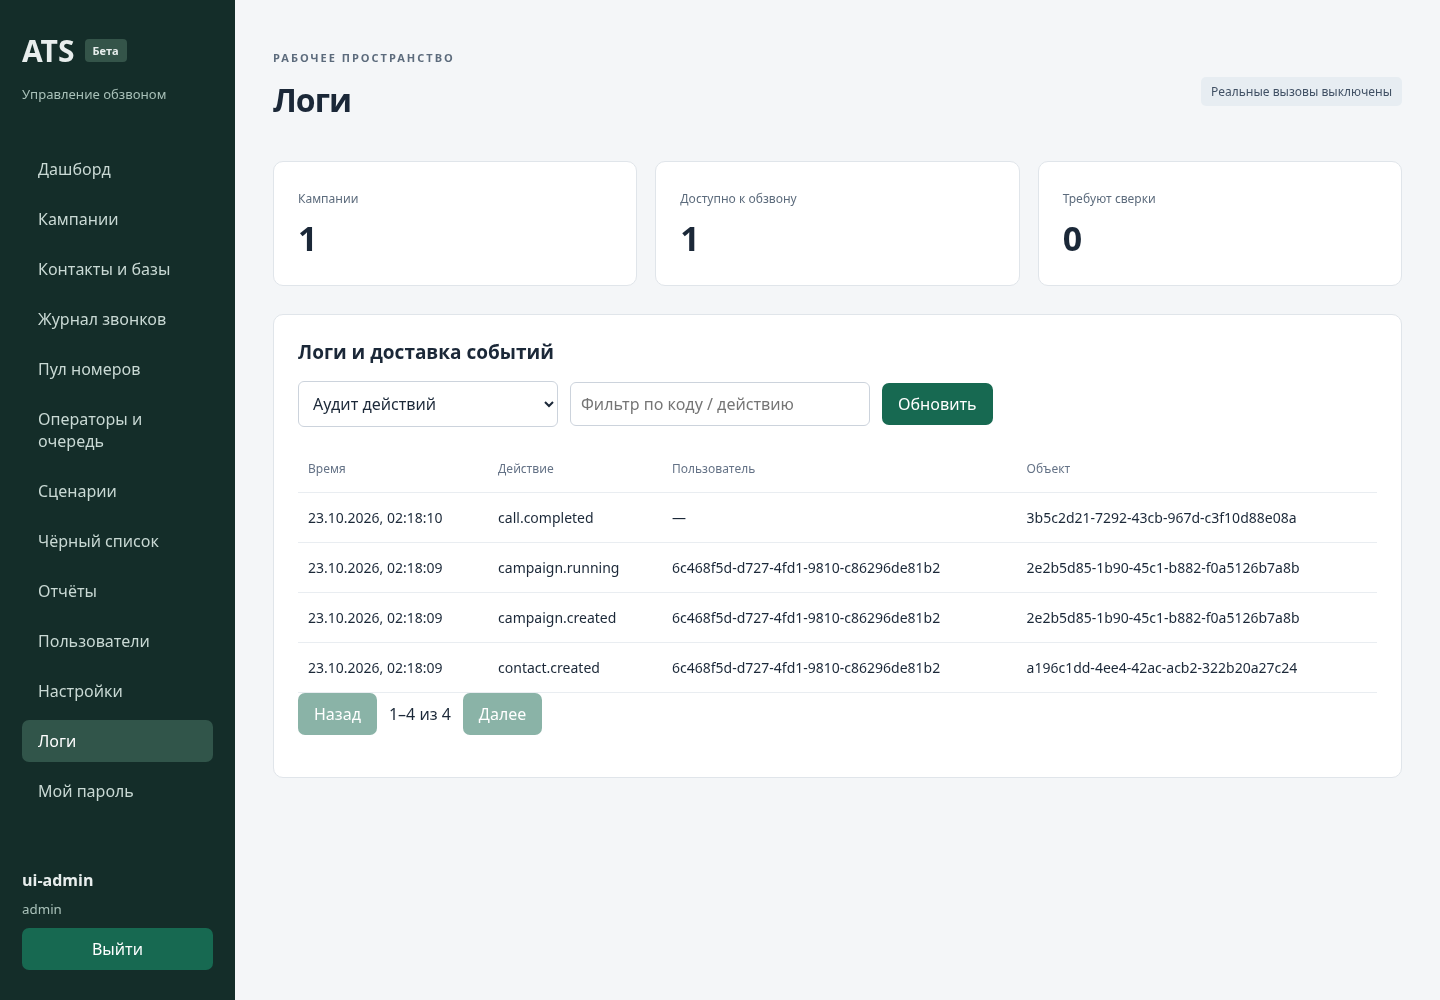
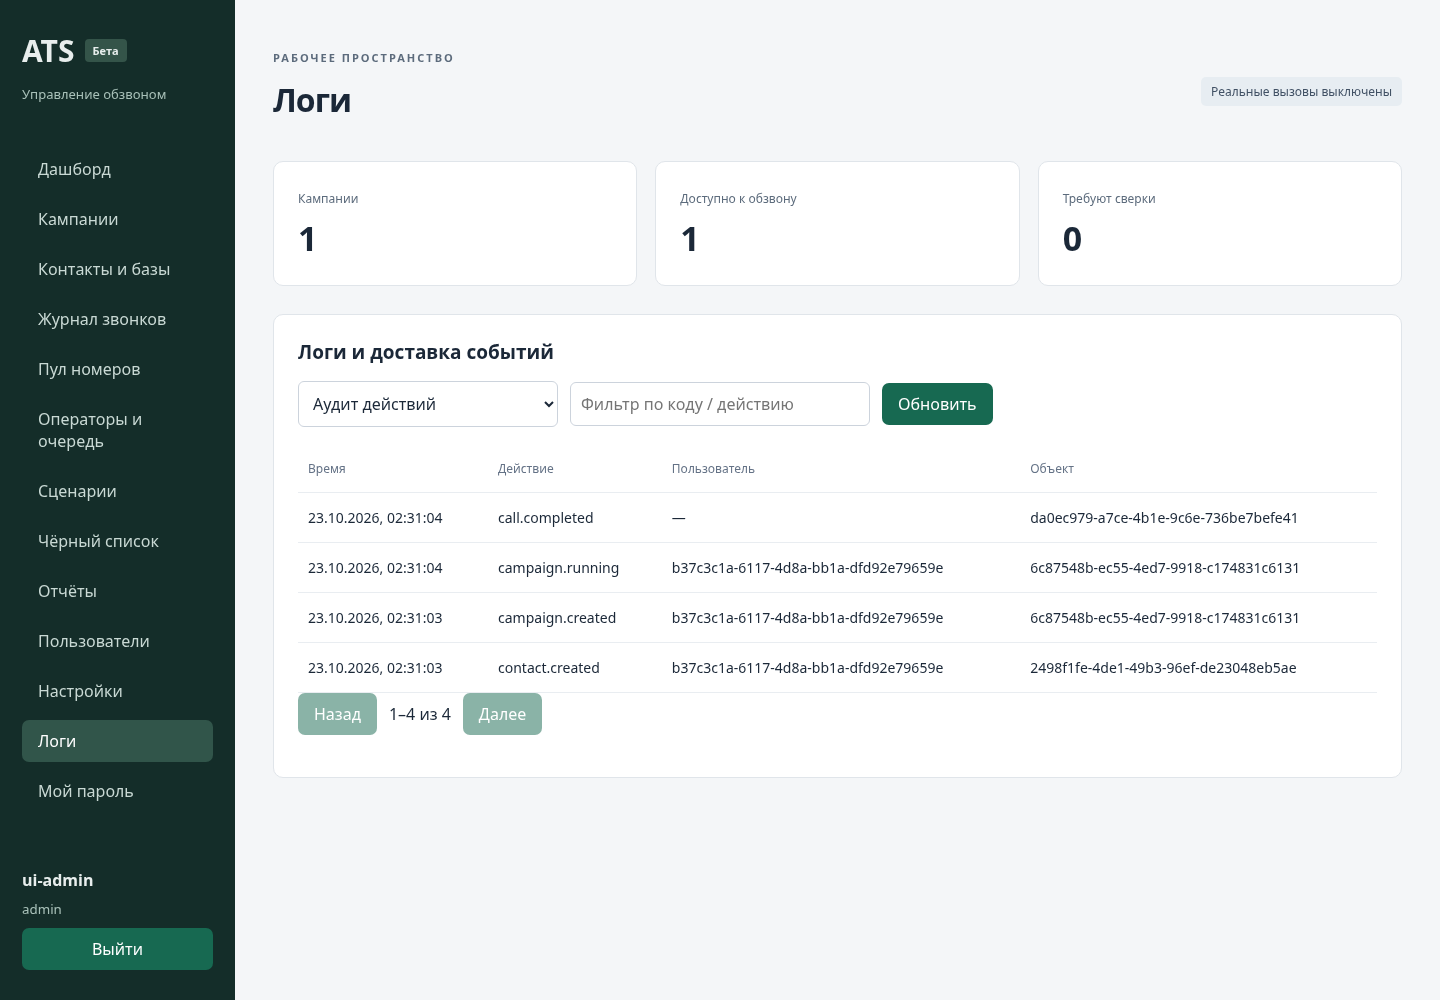
fix: scope operator controls to owned calls and tasks

diff --git a/frontend/src/WorkspaceAdmin.tsx b/frontend/src/WorkspaceAdmin.tsx
@@ -334,7 +334,13 @@ export function SettingsView({ busy, action, setNotice }: WorkspaceProps) {
     </>
   );
 }
-export function OperatorsView({ action, busy }: WorkspaceProps) {
+export function OperatorsView({
+  action,
+  busy,
+  role,
+  userId,
+  admin,
+}: WorkspaceProps) {
   const r = useResource<{ operators: Row[]; queue: Row[] }>("/operators");
   return (
     <>
@@ -351,27 +357,28 @@ export function OperatorsView({ action, busy }: WorkspaceProps) {
           ]}
         />
         <div className="toolbar">
-          {[
-            ["free", "Готов к работе"],
-            ["break", "Перерыв"],
-            ["offline", "Не в сети"],
-          ].map(([status, title]) => (
-            <button
-              key={status}
-              disabled={busy}
-              onClick={() =>
-                void action(async () => {
-                  await api("/workspace/operator-status", {
-                    method: "POST",
-                    body: JSON.stringify({ status }),
-                  });
-                  r.reload();
-                })
-              }
-            >
-              {title}
-            </button>
-          ))}
+          {role === "operator" &&
+            [
+              ["free", "Готов к работе"],
+              ["break", "Перерыв"],
+              ["offline", "Не в сети"],
+            ].map(([status, title]) => (
+              <button
+                key={status}
+                disabled={busy}
+                onClick={() =>
+                  void action(async () => {
+                    await api("/workspace/operator-status", {
+                      method: "POST",
+                      body: JSON.stringify({ status }),
+                    });
+                    r.reload();
+                  })
+                }
+              >
+                {title}
+              </button>
+            ))}
         </div>
       </section>
       <section>
@@ -385,13 +392,15 @@ export function OperatorsView({ action, busy }: WorkspaceProps) {
           rows={r.data?.queue ?? []}
           columns={[
             ["created_at", "Время"],
+            ["contact_name", "Контакт"],
+            ["phone", "Телефон"],
             ["attempt_id", "Звонок"],
             ["status", "Состояние"],
             ["operator_id", "Оператор"],
           ]}
           actions={(row) => (
             <>
-              {row.status === "waiting" && (
+              {row.status === "waiting" && role === "operator" && (
                 <button
                   disabled={busy}
                   onClick={() =>
@@ -406,24 +415,58 @@ export function OperatorsView({ action, busy }: WorkspaceProps) {
                   Взять в работу
                 </button>
               )}
-              {row.status === "accepted" && (
-                <button
-                  disabled={busy}
-                  onClick={() => {
-                    const outcome = prompt("Результат обработки");
-                    if (outcome)
-                      void action(async () => {
-                        await api(`/workspace/queue/${row.id}/complete`, {
-                          method: "POST",
-                          body: JSON.stringify({ outcome }),
+              {row.can_hangup &&
+                (admin ||
+                  r.data?.operators.some(
+                    (op) => op.id === row.operator_id && op.user_id === userId,
+                  )) && (
+                  <button
+                    className="danger"
+                    disabled={busy}
+                    onClick={() => {
+                      if (confirm("Завершить этот вызов?"))
+                        void action(async () => {
+                          await api(
+                            `/workspace/calls/${row.attempt_id}/hangup`,
+                            { method: "POST" },
+                          );
+                          r.reload();
                         });
-                        r.reload();
-                      });
-                  }}
-                >
-                  Завершить обработку
-                </button>
-              )}
+                    }}
+                  >
+                    Завершить вызов
+                  </button>
+                )}
+              {row.status === "accepted" &&
+                (row.route === "sim" ||
+                  ![
+                    "prepared",
+                    "dispatching",
+                    "accepted",
+                    "answered",
+                    "unknown",
+                  ].includes(String(row.call_status))) &&
+                (admin ||
+                  r.data?.operators.some(
+                    (op) => op.id === row.operator_id && op.user_id === userId,
+                  )) && (
+                  <button
+                    disabled={busy}
+                    onClick={() => {
+                      const outcome = prompt("Результат обработки");
+                      if (outcome)
+                        void action(async () => {
+                          await api(`/workspace/queue/${row.id}/complete`, {
+                            method: "POST",
+                            body: JSON.stringify({ outcome }),
+                          });
+                          r.reload();
+                        });
+                    }}
+                  >
+                    Завершить обработку
+                  </button>
+                )}
             </>
           )}
         />

diff --git a/frontend/src/workspace.test.tsx b/frontend/src/workspace.test.tsx
@@ -120,3 +120,26 @@ it("paginates the blacklist instead of hiding records after the first fifty", as
   await screen.findByText("contact-50");
   expect(screen.queryByText("contact-0")).toBeNull();
 });
+
+it("shows operator status controls only to an operator", async () => {
+  const { OperatorsView } = await import("./WorkspaceAdmin");
+  vi.stubGlobal(
+    "fetch",
+    vi
+      .fn()
+      .mockImplementation(() =>
+        Promise.resolve(json({ operators: [], queue: [] })),
+      ),
+  );
+  const props = {
+    admin: true,
+    role: "admin",
+    busy: false,
+    action: async (fn: () => Promise<void>) => fn(),
+    setNotice: () => {},
+  };
+  const view = render(<OperatorsView {...props} />);
+  expect(screen.queryByRole("button", { name: "Готов к работе" })).toBeNull();
+  view.rerender(<OperatorsView {...props} admin={false} role="operator" />);
+  await screen.findByRole("button", { name: "Готов к работе" });
+});

diff --git a/frontend/src/App.tsx b/frontend/src/App.tsx
@@ -139,7 +139,14 @@ export function App() {
     );
 
   const admin = me.role === "admin";
-  const workspace = { admin, busy, action, setNotice };
+  const workspace = {
+    admin,
+    busy,
+    action,
+    setNotice,
+    role: me.role,
+    userId: me.user_id,
+  };
   const tabs = [
     ["dashboard", "Дашборд"],
     ["campaigns", "Кампании"],

diff --git a/frontend/src/workspace.tsx b/frontend/src/workspace.tsx
@@ -5,6 +5,8 @@ export type Row = { id: string; [key: string]: unknown };
 export type Page<T> = { items: T[]; total: number };
 export type WorkspaceProps = {
   admin: boolean;
+  role?: string;
+  userId?: string;
   action: (fn: () => Promise<void>) => Promise<void>;
   busy: boolean;
   setNotice: (text: string) => void;

diff --git a/frontend/src/types.ts b/frontend/src/types.ts
@@ -1,4 +1,9 @@
-export type Me = { tenant_id: string; login: string; role: string };
+export type Me = {
+  tenant_id: string;
+  user_id?: string;
+  login: string;
+  role: string;
+};
 export type Contact = {
   id: string;
   name: string;

diff --git a/src/ats/api_identity.py b/src/ats/api_identity.py
@@ -137,12 +137,35 @@ def operators(p=Depends(principal), db=Depends(session)):
                 .where(Operator.tenant_id == p.tenant_id, User.active, User.role == "operator")
             )
         ],
-        "queue": db.scalars(
-            TenantRepository(db, p.tenant_id)
-            .query(QueueEntry)
-            .where(QueueEntry.status.in_(["waiting", "accepted"]))
-            .order_by(QueueEntry.created_at)
-        ).all(),
+        "queue": [
+            {
+                **jsonable_encoder(row),
+                "contact_name": call.contact_name,
+                "phone": call.phone,
+                "call_status": call.status,
+                "route": call.route,
+                "can_hangup": call.status in ACTIVE
+                and (
+                    call.status == "prepared"
+                    or call.route == "sim"
+                    or (call.route == "multicom_ami" and bool(call.channel))
+                ),
+            }
+            for row, call in db.execute(
+                select(QueueEntry, Attempt)
+                .join(
+                    Attempt,
+                    (Attempt.id == QueueEntry.attempt_id)
+                    & (Attempt.tenant_id == QueueEntry.tenant_id),
+                )
+                .where(
+                    QueueEntry.tenant_id == p.tenant_id,
+                    QueueEntry.status.in_(["waiting", "accepted"]),
+                )
+                .order_by(QueueEntry.created_at)
+                .limit(100)
+            )
+        ],
     }
 
 

diff --git a/tests/test_workspace_integration.py b/tests/test_workspace_integration.py
@@ -205,7 +205,9 @@ def test_workspace_snapshot_dry_run_and_repeat(factory, tenants, tmp_path):
     assert before == path.read_bytes()
 
 
-def test_live_operator_is_reserved_then_released(factory, prepared, tenants, monkeypatch, tmp_path):
+def test_live_operator_is_reserved_then_released(
+    factory, prepared, tenants, monkeypatch, tmp_path, logged
+):
     for key, value in {
         "ATS_LIVE_CALLS_ENABLED": "true",
         "ATS_TELEPHONY_TENANT_ID": str(tenants[0]),
@@ -237,11 +239,17 @@ def test_live_operator_is_reserved_then_released(factory, prepared, tenants, mon
     assert captured["operator_ext"] == "101" and captured["media"] is True
     with factory.begin() as db:
         attempt = db.scalar(select(Attempt))
+        aid = attempt.id
+        attempt.channel = "PJSIP/fixture-channel"
         assert db.scalar(select(Operator)).status == "busy"
         assert (tmp_path / f"{attempt.id}.json").is_file()
+    queue = logged.get(BASE + "/operators").json()["queue"]
+    assert queue[0]["phone"] == "+79990000101" and queue[0]["can_hangup"] is True
+    assert logged.post(BASE + f"/calls/{aid}/hangup").status_code == 202
+    with factory.begin() as db:
         from ats.services import finish_attempt
 
-        finish_attempt(db, attempt, "completed")
+        finish_attempt(db, db.get(Attempt, aid), "completed")
     with factory() as db:
         assert db.scalar(select(Operator)).status == "free"
         assert len(db.scalars(select(QueueEntry)).all()) == 1
